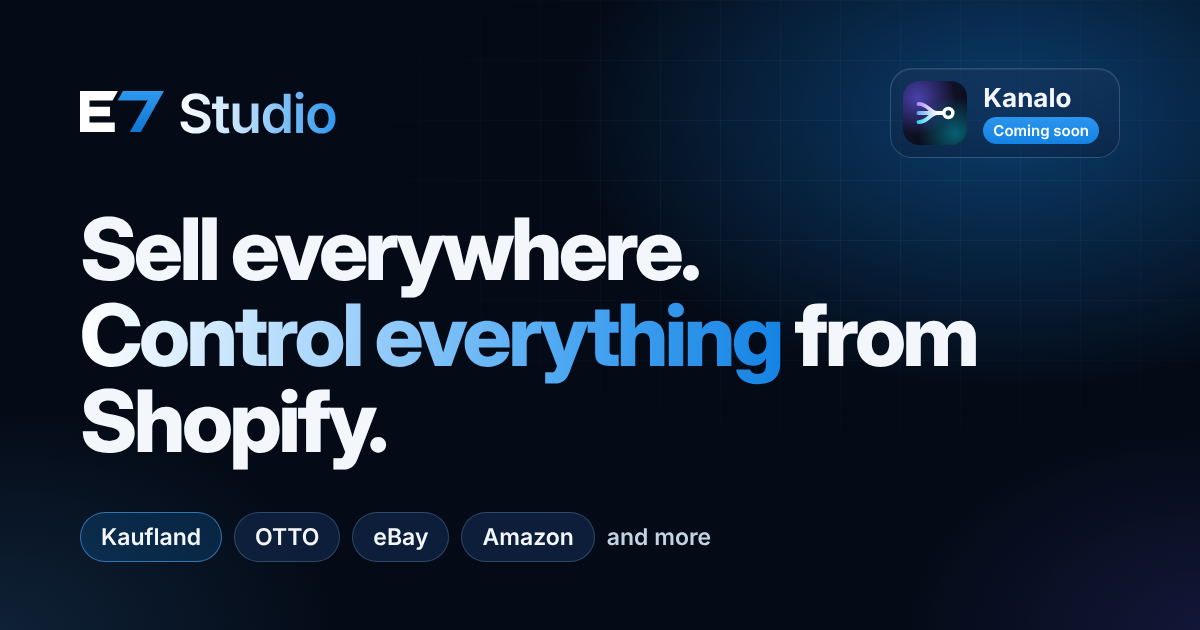
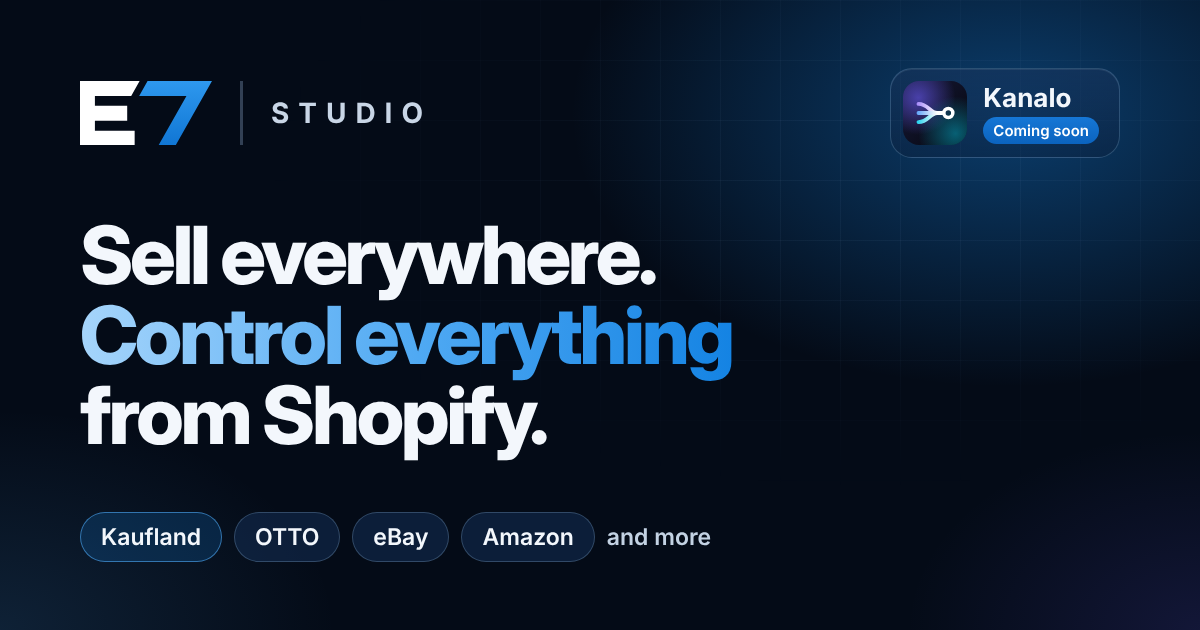
Add files via upload

diff --git a/assets/style.css b/assets/style.css
@@ -20,6 +20,8 @@
   --sky: #1483E3;
   --sky-2: #4FA9F3;
   --sky-3: #A6D5FB;
+  --fill-1: #1677D6; /* Blau hinter weisser Schrift, oben (Kontrast >= 4,5:1) */
+  --fill-2: #0B63BE; /* Blau hinter weisser Schrift, unten */
   --ok: #34D399;
   --line: rgba(148, 184, 222, 0.12);
   --line-2: rgba(148, 184, 222, 0.22);
@@ -103,7 +105,7 @@ ul, ol { margin: 0; padding: 0; list-style: none; }
 }
 
 .grad {
-  background: linear-gradient(92deg, #FFFFFF 0%, var(--sky-3) 36%, var(--sky-2) 68%, var(--sky) 100%);
+  background: linear-gradient(92deg, var(--sky-3) 0%, var(--sky-2) 52%, var(--sky) 100%);
   -webkit-background-clip: text; background-clip: text; -webkit-text-fill-color: transparent;
 }
 .eyebrow {
@@ -116,7 +118,7 @@ ul, ol { margin: 0; padding: 0; list-style: none; }
 .skip {
   position: absolute; left: 16px; top: -80px; z-index: 100;
   padding: 12px 18px; border-radius: 10px; font-weight: 600; text-decoration: none;
-  background: var(--sky); color: #FFFFFF;
+  background: var(--fill-2); color: #FFFFFF;
 }
 .skip:focus { top: calc(12px + env(safe-area-inset-top, 0px)); color: #FFFFFF; }
 
@@ -198,7 +200,7 @@ ul, ol { margin: 0; padding: 0; list-style: none; }
 .btn svg { width: 18px; height: 18px; flex-shrink: 0; transition: transform .25s var(--ease); }
 .btn:hover svg.mv { transform: translateX(3px); }
 .btn--primary {
-  color: #FFFFFF; background: linear-gradient(180deg, #2B95EE 0%, var(--sky) 100%);
+  color: #FFFFFF; background: linear-gradient(180deg, var(--fill-1) 0%, var(--fill-2) 100%);
   box-shadow: inset 0 1px 0 rgba(255, 255, 255, 0.25), 0 10px 30px rgba(20, 131, 227, 0.42);
 }
 .btn--primary:hover { color: #FFFFFF; transform: translateY(-1px); box-shadow: inset 0 1px 0 rgba(255, 255, 255, 0.25), 0 14px 38px rgba(20, 131, 227, 0.58); }
@@ -235,9 +237,10 @@ ul, ol { margin: 0; padding: 0; list-style: none; }
 }
 .badge b {
   font-size: 12px; font-weight: 600; letter-spacing: .04em; color: #FFFFFF;
-  background: linear-gradient(180deg, #2B95EE, var(--sky)); padding: 5px 10px; border-radius: 999px;
+  background: linear-gradient(180deg, var(--fill-1), var(--fill-2)); padding: 5px 10px; border-radius: 999px;
 }
 .hero h1 { font-size: clamp(46px, 6.3vw, 84px); font-weight: 800; line-height: 1.0; letter-spacing: -0.042em; }
+.hero h1 .line { display: block; } /* jeder Satz beginnt in einer neuen Zeile */
 /* Englische Wörter sind länger: Überschrift etwas kleiner, damit sie in drei Zeilen passt */
 :lang(en) .hero h1 { font-size: clamp(40px, 4.4vw, 64px); }
 .hero__lead { font-size: 19.5px; color: var(--ink-2); max-width: 31em; line-height: 1.55; }
@@ -252,8 +255,8 @@ ul, ol { margin: 0; padding: 0; list-style: none; }
 .hub__svg { display: block; width: 100%; height: auto; overflow: visible; }
 .hub__svg text { font-family: var(--font-body); }
 .hub__svg--v { display: none; }
-.hub .flow { stroke-dasharray: 3 13; animation: flow 1.4s linear infinite; }
-.hub .flow--slow { animation-duration: 2.1s; }
+.hub .flow { stroke-dasharray: 3 13; animation: flow 2.6s linear infinite; }
+.hub .flow--slow { animation-duration: 3.6s; }
 @keyframes flow { to { stroke-dashoffset: -32; } }
 
 .note {
@@ -262,7 +265,7 @@ ul, ol { margin: 0; padding: 0; list-style: none; }
   background: rgba(14, 34, 64, 0.72); border: 1px solid var(--line-2);
   -webkit-backdrop-filter: blur(14px) saturate(150%); backdrop-filter: blur(14px) saturate(150%);
   box-shadow: var(--glass-hi), 0 20px 50px rgba(0, 0, 0, 0.45);
-  animation: float 6s ease-in-out infinite;
+  animation: float 7s ease-in-out 2;
 }
 .note__icon { width: 38px; height: 38px; border-radius: 11px; display: grid; place-items: center; flex-shrink: 0; }
 .note__icon svg { width: 20px; height: 20px; }
@@ -330,7 +333,9 @@ ul, ol { margin: 0; padding: 0; list-style: none; }
 }
 .win-tab svg { width: 17px; height: 17px; flex-shrink: 0; transition: color .2s var(--ease); }
 .win-tab:hover { color: var(--ink-1); background: rgba(148, 184, 222, 0.07); }
-.win-tab[aria-selected="true"] { color: var(--ink-1); background: rgba(79, 169, 243, 0.14); box-shadow: inset 0 0 0 1px rgba(79, 169, 243, 0.2); }
+.win-tab { position: relative; }
+.win-tab[aria-selected="true"] { color: var(--ink-1); background: rgba(79, 169, 243, 0.17); box-shadow: inset 0 0 0 1px rgba(79, 169, 243, 0.3); }
+.win-tab[aria-selected="true"]::before { content: ""; position: absolute; left: 0; top: 9px; bottom: 9px; width: 3px; border-radius: 3px; background: var(--sky-2); box-shadow: 0 0 10px rgba(79, 169, 243, 0.55); }
 .win-tab[aria-selected="true"] svg { color: var(--sky-2); }
 .win-tab:focus-visible { outline-offset: -2px; border-radius: 10px; }
 /* Alle Ansichten liegen in derselben Zelle: Das Fenster behält seine Höhe, die Seite springt beim Wechseln nicht */
@@ -344,8 +349,8 @@ ul, ol { margin: 0; padding: 0; list-style: none; }
 .win-head h3 { font-size: 22px; font-weight: 700; letter-spacing: -0.02em; }
 .win-head p { font-size: 13.5px; color: var(--ink-3); margin-top: 2px; }
 .live { display: inline-flex; align-items: center; gap: 8px; padding: 7px 12px; border-radius: 999px; font-size: 13px; font-weight: 600; color: #9DEBCB; background: rgba(52, 211, 153, 0.10); border: 1px solid rgba(52, 211, 153, 0.28); }
-.live i { width: 8px; height: 8px; border-radius: 50%; background: var(--ok); animation: pulse 2.4s ease-out infinite; }
-@keyframes pulse { 0% { box-shadow: 0 0 0 0 rgba(52, 211, 153, 0.5); } 70% { box-shadow: 0 0 0 8px rgba(52, 211, 153, 0); } 100% { box-shadow: 0 0 0 0 rgba(52, 211, 153, 0); } }
+.live i { width: 8px; height: 8px; border-radius: 50%; background: var(--ok); animation: pulse 3.2s ease-out infinite; }
+@keyframes pulse { 0% { box-shadow: 0 0 0 0 rgba(52, 211, 153, 0.38); } 70% { box-shadow: 0 0 0 6px rgba(52, 211, 153, 0); } 100% { box-shadow: 0 0 0 0 rgba(52, 211, 153, 0); } }
 .kpis { display: grid; grid-template-columns: repeat(3, minmax(0, 1fr)); gap: 12px; }
 .kpi, .panel { border-radius: 16px; background: rgba(4, 11, 23, 0.42); border: 1px solid var(--line); }
 .kpi { display: flex; flex-direction: column; gap: 4px; padding: 16px 18px; min-width: 0; }
@@ -549,7 +554,7 @@ ul, ol { margin: 0; padding: 0; list-style: none; }
 .step::before {
   content: counter(s); display: grid; place-items: center; width: 64px; height: 64px; border-radius: 20px;
   font-family: var(--font-display); font-size: 26px; font-weight: 700; color: #FFFFFF;
-  background: linear-gradient(180deg, #2B95EE, #0B6CC4);
+  background: linear-gradient(180deg, var(--fill-1), var(--fill-2));
   box-shadow: 0 0 0 8px var(--bg), 0 14px 34px rgba(20, 131, 227, 0.45);
 }
 .step h3 { font-size: 21px; font-weight: 700; letter-spacing: -0.02em; }
@@ -564,7 +569,7 @@ ul, ol { margin: 0; padding: 0; list-style: none; }
 .trust__item p { font-size: 15.5px; color: var(--ink-3); }
 
 /* ---------- Roadmap & Start ---------- */
-.roadmap { display: grid; grid-template-columns: repeat(4, minmax(0, 1fr)); gap: 20px; position: relative; margin-bottom: 40px; }
+.roadmap { display: grid; grid-template-columns: repeat(3, minmax(0, 1fr)); gap: 20px; position: relative; }
 .roadmap::before {
   content: ""; position: absolute; left: 28px; right: 6%; top: 27px; height: 1px;
   background: linear-gradient(90deg, rgba(79, 169, 243, 0.7), rgba(148, 184, 222, 0.18) 45%, rgba(148, 184, 222, 0.08));
@@ -575,7 +580,7 @@ ul, ol { margin: 0; padding: 0; list-style: none; }
   background: #0B1C34; border: 1px solid var(--line-2); box-shadow: 0 0 0 8px var(--bg);
 }
 .rm__dot svg { width: 24px; height: 24px; }
-.rm--active .rm__dot { color: #FFFFFF; border-color: transparent; background: linear-gradient(180deg, #2B95EE, #0B6CC4); box-shadow: 0 0 0 8px var(--bg), 0 0 40px rgba(20, 131, 227, 0.55); }
+.rm--active .rm__dot { color: #FFFFFF; border-color: transparent; background: linear-gradient(180deg, var(--fill-1), var(--fill-2)); box-shadow: 0 0 0 8px var(--bg), 0 0 40px rgba(20, 131, 227, 0.55); }
 .rm--next .rm__dot { color: var(--sky-3); border-color: rgba(79, 169, 243, 0.45); }
 .rm h3 { font-size: 19px; font-weight: 700; letter-spacing: -0.015em; }
 .rm p { font-size: 15px; color: var(--ink-3); }
@@ -586,8 +591,8 @@ ul, ol { margin: 0; padding: 0; list-style: none; }
   display: grid; grid-template-columns: minmax(0, 1.3fr) minmax(0, 1fr); gap: 40px; align-items: center;
   padding: 56px 60px; border-radius: 30px;
   background:
-    radial-gradient(70% 120% at 100% 0%, rgba(255, 255, 255, 0.20), transparent 60%),
-    linear-gradient(135deg, rgba(38, 144, 234, 0.92) 0%, rgba(20, 131, 227, 0.88) 45%, rgba(10, 95, 176, 0.92) 100%);
+    radial-gradient(70% 120% at 100% 0%, rgba(255, 255, 255, 0.10), transparent 60%),
+    linear-gradient(135deg, var(--fill-1) 0%, #0F69C6 45%, #0A4F9C 100%);
   box-shadow: inset 0 1px 0 rgba(255, 255, 255, 0.3), 0 40px 100px rgba(20, 131, 227, 0.30);
 }
 .start::before {
@@ -599,11 +604,11 @@ ul, ol { margin: 0; padding: 0; list-style: none; }
   -webkit-mask-image: radial-gradient(ellipse 60% 90% at 100% 0%, #000 10%, transparent 70%);
   mask-image: radial-gradient(ellipse 60% 90% at 100% 0%, #000 10%, transparent 70%);
 }
-.start .eyebrow { color: #DCEEFE; }
+.start .eyebrow { color: #FFFFFF; }
 .start h2 { font-size: clamp(30px, 3.8vw, 46px); font-weight: 800; letter-spacing: -0.035em; line-height: 1.08; margin-top: 14px; }
-.start p { font-size: 18px; color: rgba(255, 255, 255, 0.9); margin-top: 14px; max-width: 30em; }
+.start p { font-size: 18px; color: #FFFFFF; margin-top: 14px; max-width: 30em; }
 .start__side { display: flex; flex-direction: column; gap: 16px; align-items: flex-start; }
-.start .start__note { font-size: 14px; margin-top: 0; color: rgba(255, 255, 255, 0.8); }
+.start .start__note { font-size: 14px; margin-top: 0; color: #FFFFFF; }
 .start__list { display: flex; flex-direction: column; gap: 12px; }
 .start__list li { display: flex; gap: 12px; align-items: center; font-weight: 600; font-size: 16px; }
 .start__list i { width: 26px; height: 26px; border-radius: 50%; display: grid; place-items: center; background: rgba(255, 255, 255, 0.18); flex-shrink: 0; }
@@ -616,16 +621,16 @@ ul, ol { margin: 0; padding: 0; list-style: none; }
 .signup input[type="email"] {
   flex: 1; min-width: 0; height: 52px; padding: 0 18px; border-radius: 14px;
   font: inherit; font-size: 16px; color: #FFFFFF;
-  background: rgba(255, 255, 255, 0.14); border: 1px solid rgba(255, 255, 255, 0.38);
+  background: rgba(4, 22, 48, 0.18); border: 1px solid rgba(255, 255, 255, 0.45);
   transition: background .2s ease, border-color .2s ease;
 }
-.signup input[type="email"]::placeholder { color: rgba(255, 255, 255, 0.68); }
-.signup input[type="email"]:focus { background: rgba(255, 255, 255, 0.2); border-color: #FFFFFF; outline: none; }
+.signup input[type="email"]::placeholder { color: rgba(255, 255, 255, 0.78); }
+.signup input[type="email"]:focus { background: rgba(4, 22, 48, 0.26); border-color: #FFFFFF; outline: none; }
 .signup input[type="email"]:focus-visible { outline: 2px solid #FFFFFF; outline-offset: 2px; }
 .signup input[type="email"]:user-invalid { border-color: #FFC2C2; }
 .signup .btn { height: 52px; flex-shrink: 0; }
 .signup .btn[aria-busy="true"] { opacity: .75; cursor: progress; }
-.signup__consent { display: flex; gap: 10px; align-items: flex-start; font-size: 13.5px; line-height: 1.5; color: rgba(255, 255, 255, 0.9); cursor: pointer; }
+.signup__consent { display: flex; gap: 10px; align-items: flex-start; font-size: 13.5px; line-height: 1.5; color: #FFFFFF; cursor: pointer; }
 .signup__consent input {
   -webkit-appearance: none; appearance: none; width: 20px; height: 20px; margin: 1px 0 0; flex-shrink: 0; cursor: pointer;
   border-radius: 6px; border: 1.5px solid rgba(255, 255, 255, 0.75); background: rgba(255, 255, 255, 0.1) center / 14px no-repeat;
@@ -673,7 +678,7 @@ ul, ol { margin: 0; padding: 0; list-style: none; }
 
 /* ---------- Kontakt ---------- */
 .contact__card { display: flex; flex-direction: column; align-items: center; text-align: center; gap: 18px; padding: 64px 32px 48px; border-radius: 30px; }
-.contact h2 { font-size: clamp(32px, 4.4vw, 52px); font-weight: 800; letter-spacing: -0.038em; line-height: 1.06; }
+.contact h2 { font-size: clamp(28px, 3.4vw, 40px); font-weight: 800; letter-spacing: -0.038em; line-height: 1.06; }
 .contact p { font-size: 18.5px; color: var(--ink-2); max-width: 32em; }
 .mail { display: flex; flex-wrap: wrap; justify-content: center; gap: 10px; align-items: center; margin-top: 6px; }
 .mail__addr {
@@ -731,10 +736,126 @@ ul, ol { margin: 0; padding: 0; list-style: none; }
 }
 @keyframes rise { from { transform: translateY(40px); } to { transform: none; } }
 
+
+/* ---------- Hero: Hinweis unter dem Button ---------- */
+.hero__cta { display: flex; flex-direction: column; gap: 12px; }
+.hero__fine { display: inline-flex; align-items: center; gap: 8px; font-size: 13.5px; color: var(--ink-3); }
+.hero__fine svg { width: 15px; height: 15px; flex-shrink: 0; color: var(--ink-4); }
+
+/* ---------- Hierarchie: Nebenabschnitte ruhiger ---------- */
+.section__head--minor { gap: 14px; margin-bottom: 44px; }
+.section__head--minor h2 { font-size: clamp(30px, 3.4vw, 42px); }
+.section__head--minor p { font-size: 17.5px; }
+.section__head .section__lead { font-size: 21px; font-weight: 500; line-height: 1.5; color: var(--ink-1); max-width: 34em; }
+.trust__item { transition: transform .35s var(--ease), box-shadow .35s var(--ease); }
+@media (hover: hover) {
+  .trust__item:hover { transform: translateY(-2px); box-shadow: var(--glass-hi), 0 24px 60px rgba(0, 0, 0, 0.28), 0 0 0 1px rgba(79, 169, 243, 0.22); }
+}
+
+/* ---------- Warum Kanalo: Vorher / Nachher ---------- */
+.compare .section__head { margin-bottom: 44px; }
+.compare h2 .line { display: block; }
+.cmp { display: grid; grid-template-columns: repeat(2, minmax(0, 1fr)); gap: 20px; }
+.cmp__card { margin: 0; display: flex; flex-direction: column; gap: 22px; padding: 28px; border-radius: 24px; min-width: 0; }
+.cmp__card--without { background: rgba(148, 184, 222, 0.03); border: 1px solid var(--line); }
+.cmp__card--with { position: relative; overflow: hidden; isolation: isolate; }
+.cmp__card--with::before {
+  content: ""; position: absolute; z-index: -1; width: 440px; height: 440px; left: 52%; top: 50%; transform: translate(-50%, -50%); pointer-events: none;
+  background: radial-gradient(circle, rgba(20, 131, 227, 0.2), transparent 62%);
+}
+.cmp__cap { display: flex; flex-direction: column; align-items: flex-start; gap: 10px; }
+.cmp__cap b { font-size: 19px; font-weight: 700; letter-spacing: -0.015em; }
+.cmp__tag { display: inline-flex; align-items: center; gap: 8px; padding: 5px 10px; border-radius: 999px; font-size: 12px; font-weight: 600; letter-spacing: .1em; text-transform: uppercase; color: var(--ink-3); background: rgba(148, 184, 222, 0.08); }
+.cmp__tag::before { content: ""; width: 7px; height: 7px; border-radius: 50%; background: #FBBF24; }
+.cmp__tag--on { color: var(--sky-3); background: rgba(79, 169, 243, 0.14); }
+.cmp__tag--on::before { background: var(--ok); }
+.cmp__note { margin-top: auto; font-size: 15px; line-height: 1.55; color: var(--ink-3); }
+.cmp__card--with .cmp__note { color: var(--ink-2); }
+
+.node {
+  display: inline-flex; align-items: center; gap: 8px; height: 36px; padding: 0 14px 0 5px; border-radius: 999px; min-width: 0;
+  font-size: 14px; font-weight: 600; color: var(--ink-1); white-space: nowrap;
+  background: rgba(18, 44, 80, 0.62); border: 1px solid rgba(166, 213, 251, 0.2); justify-self: start;
+}
+.node i { width: 26px; height: 26px; border-radius: 50%; display: grid; place-items: center; flex-shrink: 0; color: var(--sky-2); background: rgba(79, 169, 243, 0.14); }
+.node i svg { width: 15px; height: 15px; }
+.node--shop i { color: var(--ok); background: rgba(52, 211, 153, 0.14); }
+.node__ok { width: 14px; height: 14px; flex-shrink: 0; margin-left: auto; color: var(--ok); }
+.cmp__card--without .node { color: var(--ink-2); background: rgba(148, 184, 222, 0.06); border-color: var(--line); }
+.cmp__card--without .node i { color: var(--ink-3); background: rgba(148, 184, 222, 0.1); }
+
+.wire { position: relative; height: 2px; border-radius: 2px; }
+.wire--manual { background: repeating-linear-gradient(90deg, rgba(148, 184, 222, 0.34) 0 6px, transparent 6px 12px); }
+.wire--manual i {
+  position: absolute; left: 50%; top: 50%; width: 24px; height: 24px; margin: -12px 0 0 -12px; border-radius: 50%;
+  display: grid; place-items: center; color: #FCD38A; background: #1D1A12; border: 1px solid rgba(251, 191, 36, 0.32);
+}
+.wire--manual i svg { width: 13px; height: 13px; }
+.wire--auto { background: linear-gradient(90deg, rgba(52, 211, 153, 0.6), var(--sky-2)); transform-origin: left center; }
+
+.cmp__viz--without { display: grid; grid-template-columns: auto minmax(28px, 1fr) 132px; align-items: center; column-gap: 12px; row-gap: 10px; }
+.cmp__viz--without .node:not(.node--shop) { width: 100%; }
+.cmp__viz--with { display: grid; grid-template-columns: auto minmax(24px, 1fr) 64px 56px 150px; align-items: center; }
+.cmp__viz--with > .node--shop { margin-right: 12px; }
+.cmp__hub { position: relative; justify-self: center; }
+.cmp__tile { display: block; width: 56px; height: 56px; border-radius: 16px; overflow: hidden; box-shadow: 0 0 0 1px rgba(166, 213, 251, 0.38), 0 0 34px rgba(20, 131, 227, 0.5); }
+.cmp__tile svg { display: block; width: 100%; height: 100%; }
+.cmp__hub small { position: absolute; top: calc(100% + 7px); left: 50%; transform: translateX(-50%); font-size: 12.5px; font-weight: 600; color: var(--ink-2); }
+.cmp__fan { display: block; width: 56px; height: 174px; overflow: visible; fill: none; stroke: var(--sky-2); stroke-width: 2; stroke-linecap: round; opacity: .8; }
+.cmp__markets { display: grid; grid-template-rows: repeat(4, 36px); row-gap: 10px; }
+.cmp__markets .node { width: 100%; }
+
+/* Linien zeichnen sich einmal, sobald der Block sichtbar wird */
+.js-anim .wire--auto { transform: scaleX(0); }
+.js-anim .cmp__fan path { stroke-dasharray: 1; stroke-dashoffset: 1; }
+.js-anim .cmp__markets .node { opacity: .45; }
+.js-anim .node__ok { opacity: 0; transform: scale(.6); }
+.js-anim.is-in .wire--auto { transform: none; transition: transform .7s var(--ease) .15s; }
+.js-anim.is-in .cmp__fan path { stroke-dashoffset: 0; transition: stroke-dashoffset .8s var(--ease) var(--d, .8s); }
+.js-anim.is-in .cmp__markets .node { opacity: 1; transition: opacity .5s ease var(--d2, 1.4s); }
+.js-anim.is-in .node__ok { opacity: 1; transform: none; transition: opacity .4s ease var(--d2, 1.4s), transform .4s var(--ease) var(--d2, 1.4s); }
+.js-anim.is-in .cmp__tile { animation: hub-glow 1.8s ease .6s 1; }
+@keyframes hub-glow { 50% { box-shadow: 0 0 0 1px rgba(166, 213, 251, 0.6), 0 0 54px rgba(20, 131, 227, 0.75); } }
+
+/* ---------- Funktionen: Bestand als Mini-Szene ---------- */
+.sync { display: flex; flex-direction: column; gap: 10px; }
+.sync__head { display: flex; justify-content: space-between; align-items: baseline; gap: 12px; }
+.sync__head b { font-size: 13.5px; font-weight: 600; color: var(--ink-2); }
+.sync__main { display: flex; align-items: center; justify-content: space-between; gap: 12px; padding: 10px 16px 10px 10px; border-radius: 14px; background: rgba(4, 11, 23, 0.45); border: 1px solid var(--line); }
+.sync__src { display: inline-flex; align-items: center; gap: 10px; font-size: 14.5px; font-weight: 600; }
+.sync__src i { width: 32px; height: 32px; border-radius: 10px; display: grid; place-items: center; flex-shrink: 0; color: var(--ok); background: rgba(52, 211, 153, 0.14); }
+.sync__src i svg { width: 17px; height: 17px; }
+.sync__src small { font-size: 12.5px; font-weight: 500; color: var(--ink-3); }
+.sync__main .roll { font-family: var(--font-display); font-size: 28px; font-weight: 700; letter-spacing: -0.03em; }
+.sync__event { align-self: center; display: inline-flex; align-items: center; gap: 8px; padding: 6px 12px; border-radius: 999px; font-size: 12.5px; font-weight: 600; color: var(--sky-3); background: rgba(79, 169, 243, 0.12); border: 1px solid rgba(79, 169, 243, 0.24); }
+.sync__event svg { width: 14px; height: 14px; flex-shrink: 0; }
+.sync__chans { display: grid; grid-template-columns: repeat(3, minmax(0, 1fr)); gap: 8px; }
+.sync__chans li { display: flex; flex-wrap: wrap; align-items: center; gap: 2px 6px; padding: 10px 12px; border-radius: 12px; background: rgba(4, 11, 23, 0.45); border: 1px solid var(--line); min-width: 0; }
+.sync__chans li > span:first-child { flex-basis: 100%; font-size: 12px; font-weight: 600; color: var(--ink-3); overflow: hidden; text-overflow: ellipsis; white-space: nowrap; }
+.sync__chans .roll { font-family: var(--font-display); font-size: 20px; font-weight: 700; }
+.sync__ok { width: 15px; height: 15px; color: var(--ok); }
+.roll { display: inline-block; height: 1.15em; line-height: 1.15; overflow: hidden; vertical-align: bottom; font-variant-numeric: tabular-nums; }
+.roll__in { display: flex; flex-direction: column; transform: translateY(-50%); }
+.roll b { display: block; height: 1.15em; font-weight: inherit; }
+.js-anim .roll__in { transform: none; }
+.js-anim.is-in .roll__in { transform: translateY(-50%); transition: transform .8s var(--ease) var(--d, 1.5s); }
+.js-anim .sync__event { opacity: 0; transform: translateY(-6px); }
+.js-anim.is-in .sync__event { opacity: 1; transform: none; transition: opacity .6s ease .5s, transform .6s var(--ease) .5s; }
+.js-anim .sync__ok { opacity: 0; transform: scale(.6); }
+.js-anim.is-in .sync__ok { opacity: 1; transform: none; transition: opacity .4s ease calc(var(--d, 2s) + .5s), transform .4s var(--ease) calc(var(--d, 2s) + .5s); }
+.js-anim.is-in .sync__main { animation: sync-flash 1.6s ease 1.4s 1; }
+@keyframes sync-flash { 40% { border-color: rgba(79, 169, 243, 0.55); box-shadow: 0 0 0 4px rgba(79, 169, 243, 0.1); } }
+
+/* ---------- Funktionen: Produktzuordnung ---------- */
+.matches { display: flex; flex-direction: column; gap: 8px; }
+.match { display: flex; align-items: center; justify-content: space-between; gap: 12px; padding: 10px 14px; border-radius: 12px; background: rgba(4, 11, 23, 0.45); border: 1px solid var(--line); }
+.match b { display: block; font-size: 14px; font-weight: 600; }
+.match small { display: block; font-size: 12px; color: var(--ink-3); }
+
 /* ---------- Responsiv ---------- */
 @media (max-width: 1040px) {
   .hero__grid { grid-template-columns: minmax(0, 1fr); gap: 24px; padding-block: 48px 32px; }
-  .hub { max-width: 640px; }
+  .hub { max-width: 640px; width: 100%; margin-inline: auto; }
   .window__body { grid-template-columns: minmax(0, 1fr); }
   .win-side { padding: 10px; border-right: 0; border-bottom: 1px solid var(--line); }
   .win-app { display: none; }
@@ -750,8 +871,7 @@ ul, ol { margin: 0; padding: 0; list-style: none; }
   .tile--wide { grid-column: span 2; }
   .tile--third { grid-column: span 1; }
   .trust { grid-template-columns: repeat(2, minmax(0, 1fr)); }
-  .roadmap { grid-template-columns: repeat(2, minmax(0, 1fr)); row-gap: 36px; }
-  .roadmap::before { display: none; }
+  .roadmap { grid-template-columns: repeat(3, minmax(0, 1fr)); }
   .start { grid-template-columns: minmax(0, 1fr); padding: 44px; }
   .studio { grid-template-columns: minmax(0, 1fr); gap: 40px; }
   .section { padding-block: 88px; }
@@ -874,4 +994,33 @@ ul, ol { margin: 0; padding: 0; list-style: none; }
   .tile, .btn, .btn svg { transition: none; }
   ::view-transition-old(root), ::view-transition-new(root) { animation: none; }
   main { animation: none; }
+}
+
+/* ---------- Feinschliff: Responsiv ---------- */
+@media (max-width: 1040px) {
+  .cmp { grid-template-columns: minmax(0, 1fr); max-width: 760px; margin-inline: auto; }
+  .win-tab[aria-selected="true"]::before { display: none; }
+}
+@media (max-width: 700px) {
+  .roadmap::before { display: none; }
+  .section__head .section__lead { font-size: 18.5px; }
+  .section__head--minor { margin-bottom: 36px; }
+}
+/* Handy: Vorher/Nachher vereinfacht, Marktplaetze als Raster */
+@media (max-width: 600px) {
+  .cmp__card { padding: 22px 18px; gap: 18px; }
+  .node { height: 34px; padding-right: 12px; font-size: 13.5px; }
+  .node i { width: 24px; height: 24px; }
+  .cmp__viz--without { grid-template-columns: auto minmax(18px, 1fr) 116px; column-gap: 8px; }
+  .cmp__viz--with { grid-template-columns: auto minmax(18px, 1fr) auto; row-gap: 16px; }
+  .cmp__viz--with > .node--shop { margin-right: 8px; }
+  .cmp__hub { display: flex; align-items: center; gap: 8px; margin-left: 8px; }
+  .cmp__tile { width: 44px; height: 44px; border-radius: 13px; }
+  .cmp__hub small { position: static; transform: none; }
+  .cmp__fan { display: none; }
+  .cmp__markets { grid-column: 1 / -1; grid-template-rows: none; grid-template-columns: repeat(2, minmax(0, 1fr)); gap: 8px; }
+}
+@media (prefers-reduced-motion: reduce) {
+  .trust__item { transition: none; }
+  .js-anim, .js-anim * { transition: none !important; animation: none !important; }
 }
